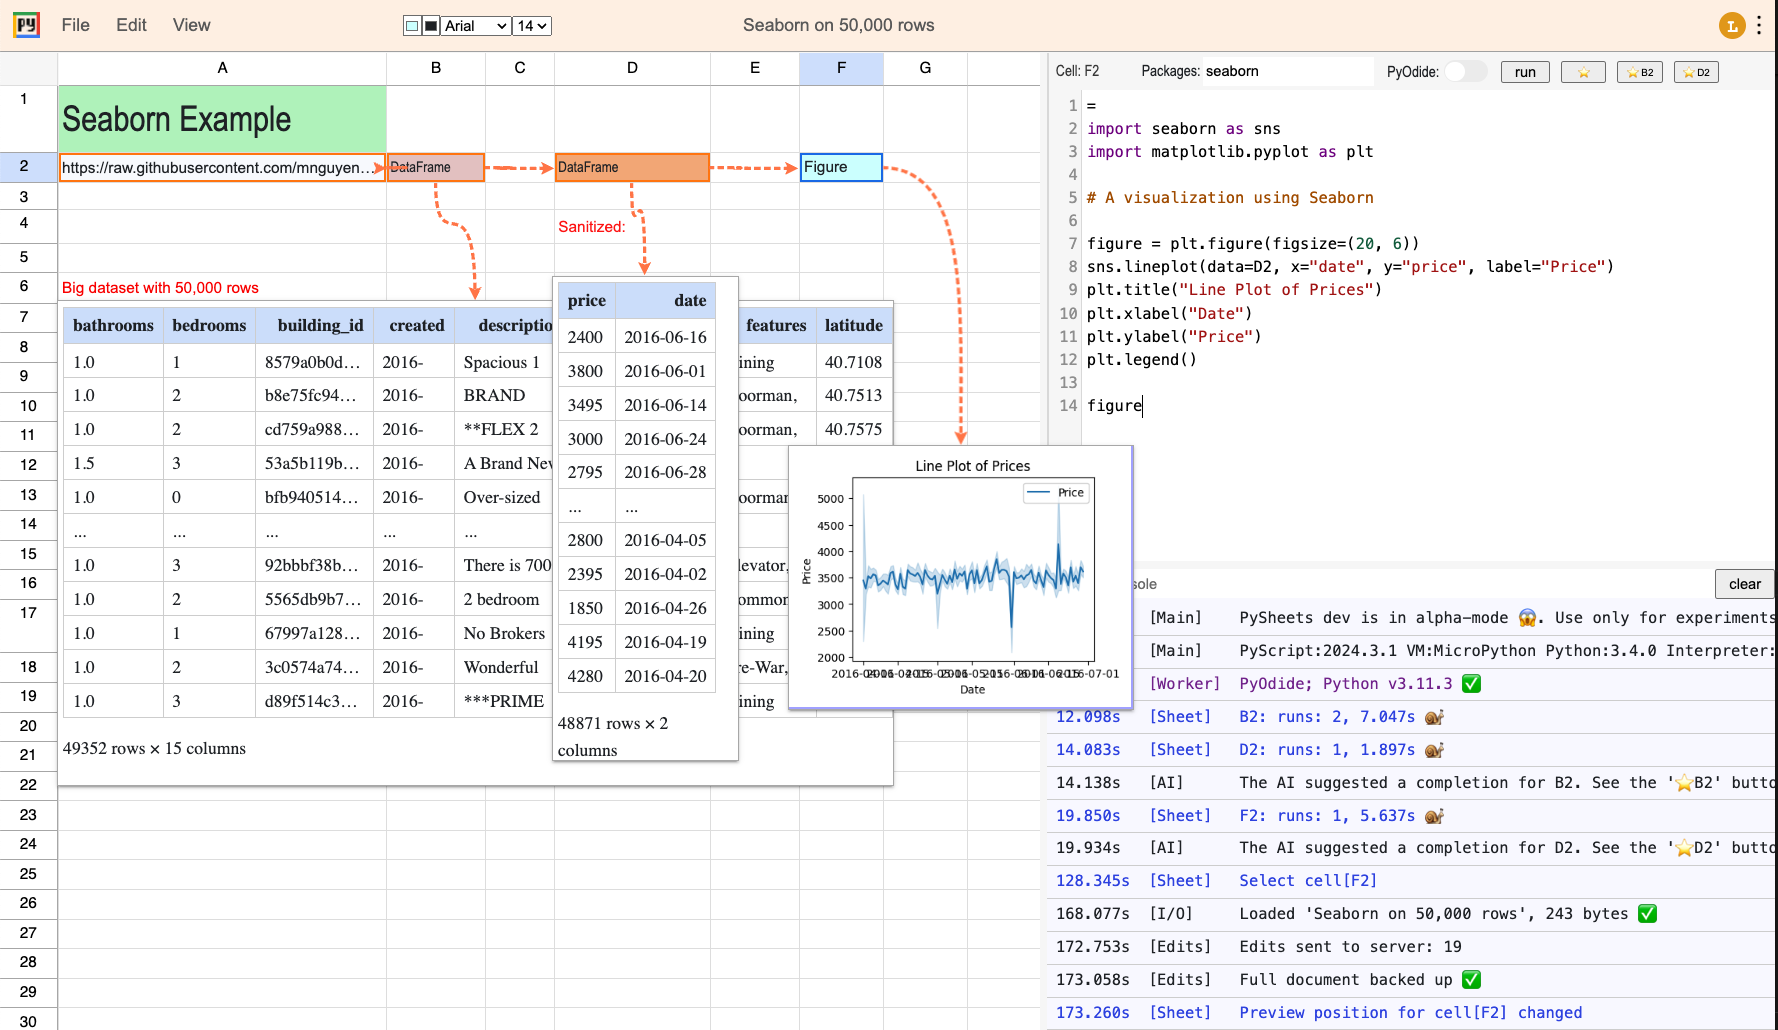
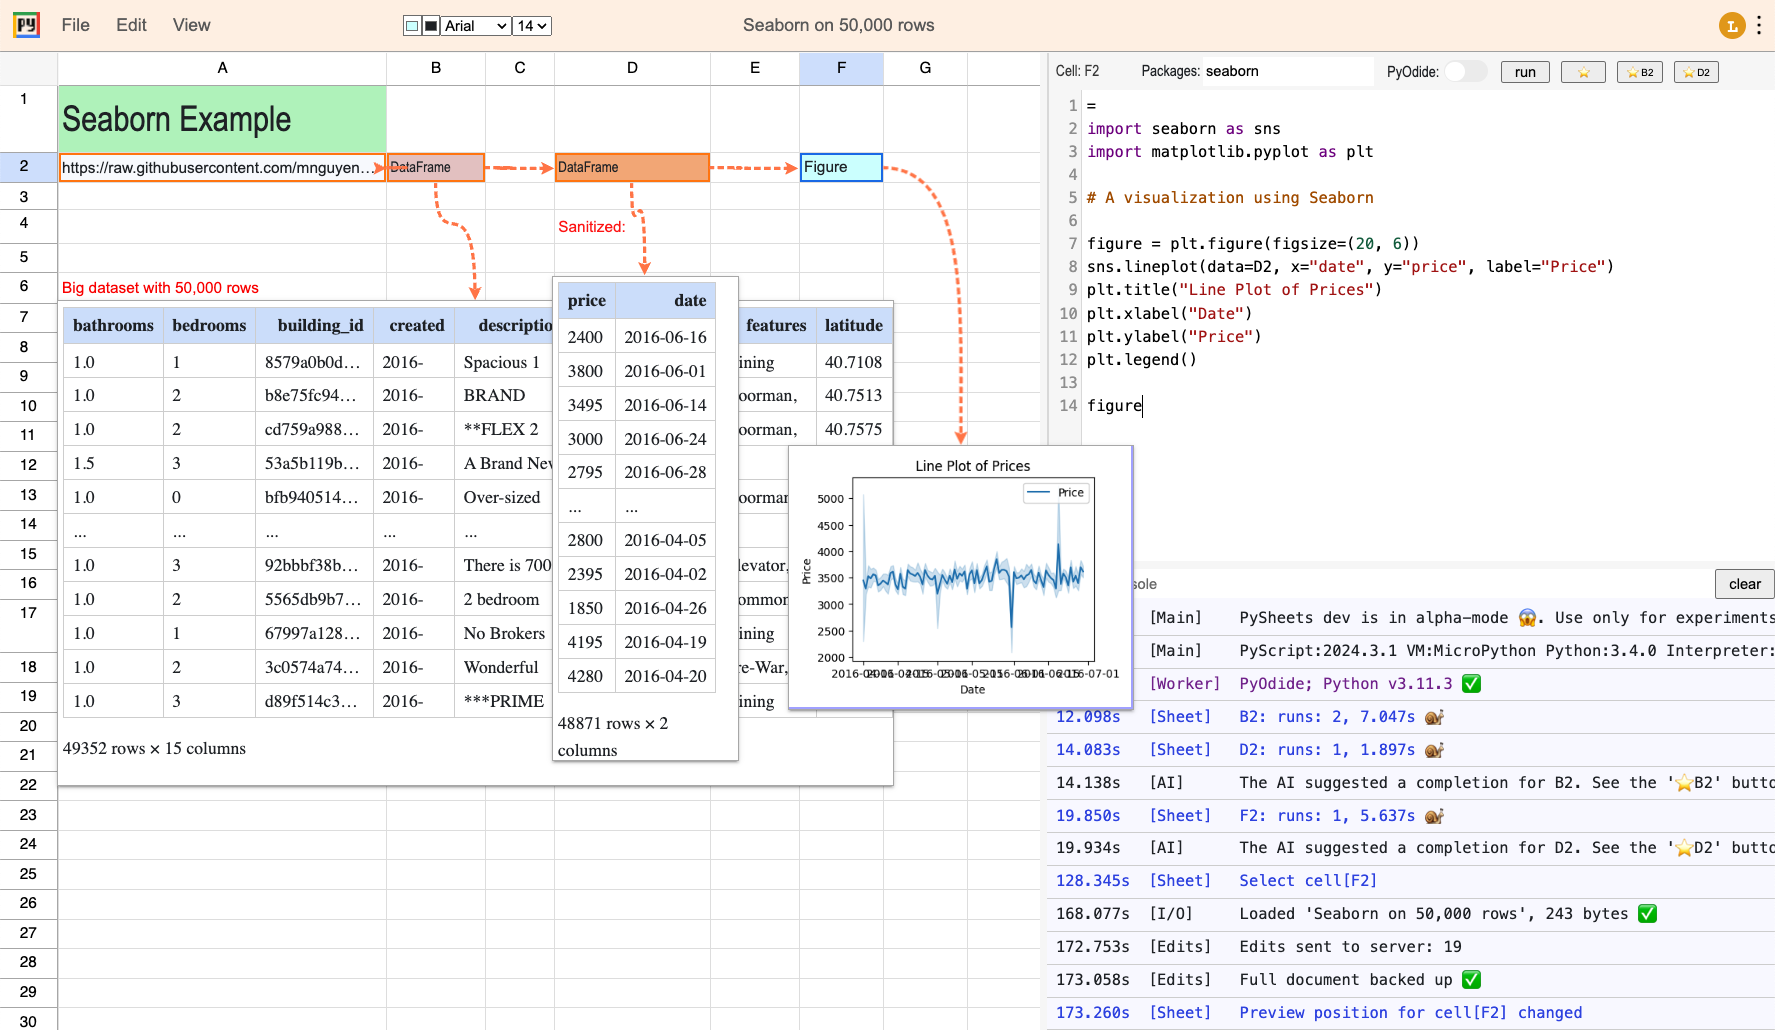
Improve previews

diff --git a/static/pysheets.css b/static/pysheets.css
@@ -215,10 +215,31 @@ h3 {
     margin: 20px;
     width: fit-content;
     border: 1px solid rgb(176, 176, 176);
-    padding: 5px;
     box-shadow: 0 3px 1px -2px rgba(0, 0, 0, .2), 0 2px 2px 0 rgba(0, 0, 0, .14), 0 1px 5px 0 rgba(0, 0, 0, .12);
     cursor: pointer;
     overflow: hidden;
+}
+
+.preview-header {
+    background-color: #2077b4;
+    height: 28px;
+    width: 100%;
+    padding: 2px 4px;
+}
+
+.preview-header .ltk-text {
+    color: white;
+    margin-right: 4px;
+}
+
+.preview-header .toggle {
+    width: 24px;
+    min-width: 24px;
+    margin-top: 1px;
+    height: 24px;
+    position: absolute;
+    right: 4px;
+    font-size: 18px;
 }
 
 .preview table {
@@ -364,7 +385,7 @@ input {
     height: 24px;
 }
 
-.other-editor {
+.person {
     margin-left: 8px;
     font-family: 'Courier New', Courier, monospace;
     font-size: 16px;
@@ -729,27 +750,27 @@ td:hover .debug-info {
     margin: 0;
 }
 
-.console .error {
+.console .error td {
     color: red;
 }
 
-.console .print {
+.console .print td {
     color: #ea5601;
 }
 
-.console .debug {
+.console .debug td {
     color: rgb(46, 158, 178);
 }
 
-.console .sheet {
+.console .sheet td {
     color: rgb(51, 74, 227);
 }
 
-.console .worker {
+.console .worker td {
     color: rgb(123, 36, 149);
 }
 
-.console .warning {
+.console .warning td {
     color: rgb(207, 112, 3);
 }
 

diff --git a/static/pysheets.py b/static/pysheets.py
@@ -30,7 +30,7 @@ def save(force=False):
     state.doc.dirty = True
     delay = (
         constants.SAVE_DELAY_SINGLE_EDITOR
-        if ltk.find(".other-editor").length == 0
+        if ltk.find(".person").length == 0
         else constants.SAVE_DELAY_MULTIPLE_EDITORS
     )
     ltk.schedule(lambda: sheet.save_edits(force), "send edits to server", delay)
@@ -493,6 +493,10 @@ pysheets.sheet("{key}:{other_key}")
     def save_edits(self, force=False):
         if not force and (not state.sync_edits or not any(state.doc.edits.values())):
             return
+        for key, cell in list(state.doc.edits[constants.DATA_KEY_CELLS].items()):
+            state.doc.edits[constants.DATA_KEY_CELLS][key] = cell.to_dict()
+        for key in list(state.doc.edits[constants.DATA_KEY_PREVIEWS]):
+            state.doc.edits[constants.DATA_KEY_PREVIEWS][key] = previews[key]
         edits = {}
         for key, edit in list(state.doc.edits.items()):
             if edit:
@@ -626,7 +630,8 @@ class Cell(ltk.TableData):
             self.evaluate()
 
     def store_edit(self):
-        state.doc.edits[constants.DATA_KEY_CELLS][self.key] = self.to_dict()
+        state.doc.edits[constants.DATA_KEY_CELLS][self.key] = self
+        state.doc.last_edit = window.time()
 
     def get_inputs(self, script):
         if not isinstance(script, str) or not script or script[0] != "=" or "no-inputs" in script:
@@ -737,20 +742,30 @@ class Cell(ltk.TableData):
         debug(f"add preview ", self.key, preview)
 
         def get_dimension():
-            return (preview.css("left"), preview.css("top"), preview.css("width"), preview.css("height"))
+            return (
+                window.parseInt(preview.css("left")),
+                window.parseInt(preview.css("top")),
+                window.parseInt(preview.css("width")),
+                window.parseInt(preview.css("height"))
+            )
         
         @saveit
         def save_preview():
-            state.doc.edits[constants.DATA_KEY_PREVIEWS][self.key] = previews[self.key] = get_dimension()
-            state.console.write("preview-changed", f"[Sheet] Preview position for {self} changed")
+            previews[self.key] = get_dimension()
+            state.doc.edits[constants.DATA_KEY_PREVIEWS][self.key] = preview
+            state.doc.last_edit = window.time()
+            state.console.write(
+                "preview-changed", 
+                f"[Sheet] Preview position for {self} saved: {previews[self.key]}"
+            )
 
         def dragstop(*args):
-            ltk.schedule(save_preview, "save-preview", 1)
+            ltk.schedule(save_preview, "save-preview", 3)
 
         def resize(event, *args):
             preview = ltk.find(event.target)
-            preview.find("img, iframe").css("width", preview.width()).css("height", preview.height())
-            ltk.schedule(save_preview, "save-preview", 1)
+            preview.find("img, iframe").css("width", "100%").css("height", f"calc(100% - {constants.PREVIEW_HEADER_HEIGHT})")
+            ltk.schedule(save_preview, "save-preview", 3)
 
         left, top, width, height = previews.get(
             self.key,
@@ -774,21 +789,43 @@ class Cell(ltk.TableData):
             .css("position", "absolute")
             .css("left", left)
             .css("top", top)
-            .css("width", "fit-content")
-            .css("height", "fit-content")
+            .css("width", width)
+            .css("height", height)
             .on("mousemove", proxy(lambda event: self.draw_cell_arrows()))
             .on("mouseleave", proxy(lambda event: remove_arrows()))
             .on("resize", proxy(resize))
             .on("dragstop", proxy(dragstop))
             .draggable()
         )
+
+        def toggle(event):
+            minimize = preview.height() > constants.PREVIEW_HEADER_HEIGHT
+            height = constants.PREVIEW_HEADER_HEIGHT if minimize else "fit-content"
+            width = constants.PREVIEW_HEADER_WIDTH if minimize else "fit-content"
+            preview \
+                .attr("minimized", minimize) \
+                .height(height) \
+                .width(width) \
+                .find(".ui-resizable-handle") \
+                    .css("display", "none" if minimize else "block")
+            ltk.find(event.target).text("+" if minimize else "-")
+            ltk.schedule(save_preview, "save-preview", 3)
+
         try:
             html = self.fix_preview_html(preview, self.preview)
-            ltk.find("#sheet-scrollable").append(preview.append(ltk.create(html)))
+            ltk.find("#sheet-scrollable").append(
+                preview.append(
+                    ltk.HBox(
+                        ltk.Text(self.key),
+                        ltk.Button("-" if preview.height() > constants.PREVIEW_HEADER_HEIGHT else "+", ltk.proxy(toggle)).addClass("toggle")
+                    ).addClass("preview-header"),
+                    ltk.create(html)
+                )
+            )
         except Exception as e:
-            debug(f"No preview for {self}: {e}")
+            state.console.write("sheet", f"[Error] No preview for {self}: {e}")
             pass
-
+            
         debug("add preview", self.key)
         self.make_resizable()
         self.draw_arrows()
@@ -798,7 +835,7 @@ class Cell(ltk.TableData):
                 td.empty().append(ltk.Div().text(content))
             ltk.find(f"#preview-{self.key} .dataframe tr th:first-child").remove()
         except Exception as e:
-            print("Error adding preview for", self, e)
+            state.console.write("sheet", "[Error] Cannot add preview for", self, e)
         if state.mobile():
             ltk.find(".dataframe").closest(".preview").remove()
 
@@ -824,10 +861,11 @@ class Cell(ltk.TableData):
 
     def make_resizable(self):
         preview = ltk.find(f"#preview-{self.key}")
-        width = preview.css("width")
-        height = preview.css("height")
-        # preview.find("img, iframe").css("width", width).css("height", height)
-        preview.resizable(ltk.to_js({"handles": "s, e"}))
+        width = preview.width()
+        height = preview.height()
+        preview.find("img, iframe").css("width", "100%").css("height", f"calc(100% - {constants.PREVIEW_HEADER_HEIGHT})")
+        preview.resizable(ltk.to_js({"handles": "se"}))
+        preview.find(".ui-resizable-handle").css("display", "block" if height > constants.PREVIEW_HEADER_HEIGHT else "none")
 
     def is_int(self, value):
         try:
@@ -851,7 +889,7 @@ class Cell(ltk.TableData):
             try:
                 self.inputs = self.get_inputs(script)
             except Exception as e:
-                print(f"Cannot get inputs for {self.key}", e)
+                state.console.write("sheet", f"[Error] Cannot get inputs for {self.key}", e)
                 self.inputs = set()
             cache_keys = set(self.sheet.cache.keys())
             if not self.inputs.issubset(cache_keys):
@@ -956,12 +994,13 @@ def handle_edits(data):
         return
     edits = data[constants.DATA_KEY_EDITS]
     for edit in edits:
-        debug(f"Handle edits {edit}")
+        email = edit[constants.DATA_KEY_EMAIL]
+        timestamp = edit[constants.DATA_KEY_TIMESTAMP]
         edit[constants.DATA_KEY_UID] = data[constants.DATA_KEY_UID]
         edit[constants.DATA_KEY_CURRENT] = None
-        debug(f" edit  {edit[constants.DATA_KEY_TIMESTAMP] > state.doc.last_edit} - {edit[constants.DATA_KEY_TIMESTAMP]} {state.doc.last_edit}")
         sheet.load_data(edit)
-    state.doc.last_edit = window.time()
+    if edits:
+        state.create_user_image(email, timestamp)
 
 
 def check_edits():
@@ -1035,7 +1074,7 @@ def email_to_class(email):
 
 def remove_old_editors():
     now = window.time()
-    for editor in ltk.find_list(".other-editor"):
+    for editor in ltk.find_list(".person"):
         timestamp = int(editor.attr(constants.DATA_KEY_TIMESTAMP))
         if timestamp and now - timestamp > constants.OTHER_EDITOR_TIMEOUT:
             editor.remove()
@@ -1186,6 +1225,7 @@ def setup_login():
 @saveit
 def set_name(event):
     state.doc.edits[constants.DATA_KEY_NAME] = state.doc.name = ltk.find("#title").val()
+    state.doc.last_edit = window.time()
 
 
 ltk.find("#title").on("change", proxy(set_name))
@@ -1199,6 +1239,7 @@ def update_cell(event=None):
         cell.set(script)
         cell.evaluate()
         state.doc.edits[constants.DATA_KEY_CELLS][cell.key] = cell.to_dict()
+        state.doc.last_edit = window.time()
 
 
 main_editor = editor.Editor()
@@ -1224,7 +1265,7 @@ def save_packages(event):
 
 def create_sheet():
     if not state.user.token:
-        return
+        return Spreadsheet()
 
     @saveit
     def resize_editor(*args):
@@ -1324,6 +1365,7 @@ def create_sheet():
         cell.css("font-family", option.text())
         sheet.selection.css("font-family", option.text())
         state.doc.edits[constants.DATA_KEY_CELLS][cell.key] = cell.to_dict()
+        state.doc.last_edit = window.time()
 
     @saveit
     def set_font_size(index, option):
@@ -1331,6 +1373,7 @@ def create_sheet():
         cell.css("font-size", f"{option.text()}px")
         sheet.selection.css("font-size", f"{option.text()}px")
         state.doc.edits[constants.DATA_KEY_CELLS][cell.key] = cell.to_dict()
+        state.doc.last_edit = window.time()
 
     @saveit
     def set_color(event):
@@ -1347,6 +1390,7 @@ def create_sheet():
         cell.css("background-color", color)
         sheet.selection.css("background-color", color)
         state.doc.edits[constants.DATA_KEY_CELLS][cell.key] = cell.to_dict()
+        state.doc.last_edit = window.time()
 
     ltk.find("#cell-attributes-container").empty().append(
         ltk.ColorPicker()
@@ -1488,7 +1532,7 @@ def handle_completion_request(completion):
         text, budget = completion_cache[key]
         add_completion_button(key, lambda: insert_completion(key, prompt, text, budget))
     except Exception as e:
-        print("Error in completion:", e)
+        state.console.write("sheet", "[Error] Cannot complete:", e)
 
 
 def insert_completion(key, prompt, text, budget):

diff --git a/static/state.py b/static/state.py
@@ -70,7 +70,7 @@ def login(email, token):
 
             
 def create_user_image(email, timestamp):
-    if not email or ltk.find(f'.other-editor[{constants.DATA_KEY_EMAIL}="{email}"]').length != 0:
+    if not email or ltk.find(f'.person[{constants.DATA_KEY_EMAIL}="{email}"]').length != 0:
         return
     first_letter = email[0].upper()
     color = constants.IMAGE_COLORS[ord(first_letter) % len(constants.IMAGE_COLORS)]
@@ -80,7 +80,7 @@ def create_user_image(email, timestamp):
             .attr(constants.DATA_KEY_TIMESTAMP, timestamp)
             .attr("title", f"{email} - {timestamp}")
             .css("background", color)
-            .addClass("other-editor"))
+            .addClass("person"))
     )
 
 
@@ -127,7 +127,7 @@ def forget_result(result):
 
 def really_forget_me():
     window.localStorage.clear()
-    print("User activated really_forget_me")
+    console.write("main", "User activated really_forget_me")
     ltk.get(add_token(f"/forget"), ltk.proxy(forget_result))
 
     
@@ -361,7 +361,7 @@ ltk.subscribe(constants.PUBSUB_STATE_ID, ltk.pubsub.TOPIC_WORKER_READY, worker_r
 
 def check_lastpass():
     if ltk.find("div[data-lastpass-root]").length:
-        console.write("lastpass", f"Warning: Lastpass was detected. It slows down PySheets. Please disable it for this page.")
+        console.write("lastpass", f"[Error] Lastpass was detected. It slows down PySheets. Please disable it for this page.")
 
 ltk.find(".menu-button").on("click", ltk.proxy(show_settings))
 ltk.window.addEventListener("popstate", lambda event: print("popstate"))

diff --git a/static/menu.py b/static/menu.py
@@ -11,7 +11,7 @@ def create_menu():
     return ltk.MenuBar(
         ltk.Menu("File",
              ltk.MenuItem("➕", "New", "", lambda item: new_sheet()),
-             ltk.MenuItem("📂", "Open", "Cmd+O", lambda item: go_home()),
+             ltk.MenuItem("📂", "Open", "Cmd+O", lambda item: go_go()),
              ltk.MenuItem("🎁", "Share", "", lambda item: share_sheet()),
              ltk.MenuItem("🗑", "Delete", "", lambda item: delete_doc()),
         ),
@@ -35,10 +35,14 @@ Enter the name of the sheet to actually delete it:")
 def delete_doc():
     if window.prompt(DELETE_PROMPT) == state.doc.name:
         url = f"/file?{constants.DATA_KEY_UID}={state.doc.uid}"
-        ltk.delete(state.add_token(url), lambda data: go_home())
+        ltk.delete(state.add_token(url), lambda data: go_go())
 
 
 def go_home():
+    window.document.location = "/"
+
+
+def go_go():
     window.document.location = "/go"
 
 

diff --git a/static/constants.py b/static/constants.py
@@ -22,6 +22,9 @@ WORKER_LOADING = "Loading..."
 
 MIN_PASSWORD_LENGTH = 8
 
+PREVIEW_HEADER_WIDTH = 56
+PREVIEW_HEADER_HEIGHT = 32
+
 IMAGE_COLORS = [ "#3B71CA", "#9FA6B2", "#14A44D", "#DC4C64", "#E4A11B", "#54B4D3", "#FBFBFB", "#332D2D" ]
 
 FONT_NAMES = [ "Arial", "Courier", "Roboto" ]
